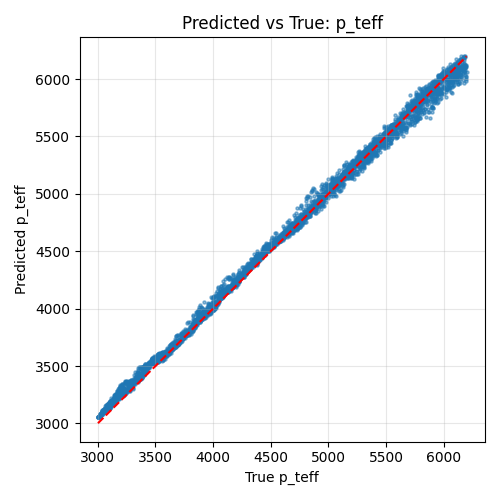
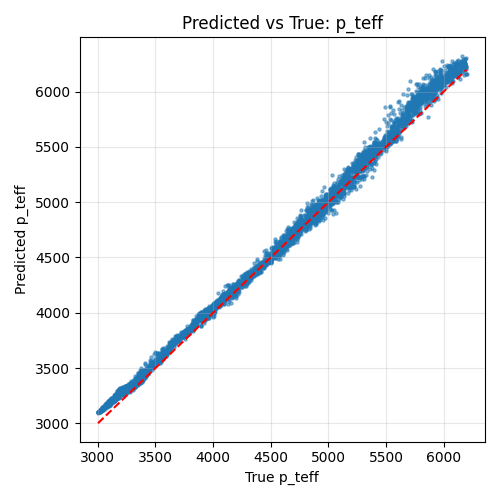
solar radii updated

diff --git a/ANN/ANN2.py b/ANN/ANN2.py
@@ -18,25 +18,20 @@ csv_path = "clean_stellar_dataset.csv"
 wavelength_file = "Koi1422_HET.txt"  # for wavelength grid reference, optional
 
 # ========== LABELS ==========
-# We'll transform radius columns to log space for training
-label_names = ["p_teff", "s_teff", "p_logg", "s_logg", "p_radius_log", "s_radius_log"]
+label_names = ["p_teff", "s_teff", "p_logg", "s_logg", "p_radius", "s_radius"]
 
 # ========== 1. LOAD DATA ==========
 df = pd.read_csv(csv_path)
 flux_cols = [c for c in df.columns if c.startswith("flux_")]
 
-epsilon = 1e-5
-# Create log radius columns to stabilize training
-df["p_radius_log"] = np.log(df["p_radius"] + epsilon)
-df["s_radius_log"] = np.log(df["s_radius"] + epsilon)
+# ===== SOLAR RADIUS CONVERSION (ONLY CHANGE) =====
+R_SUN = 6.957e10  # cm
 
-def undo_log_radii(arr, label_names, epsilon):
-    arr = arr.copy()
-    pr = label_names.index("p_radius_log")
-    sr = label_names.index("s_radius_log")
-    arr[:, pr] = np.exp(arr[:, pr]) - epsilon
-    arr[:, sr] = np.exp(arr[:, sr]) - epsilon
-    return arr
+df["p_radius"] = df["p_radius"] / R_SUN
+df["s_radius"] = df["s_radius"] / R_SUN
+
+
+# ===============================================
 
 # Load wavelength for info (not used in training)
 wavelength = np.loadtxt(wavelength_file)[:, 0]
@@ -51,7 +46,6 @@ def build_wavelength_mask(wl):
         (wl >= 0.8240)
     )
 
-
 mask = build_wavelength_mask(wavelength)
 print(f"Keeping {mask.sum()} / {len(mask)} wavelength bins")
 
@@ -63,7 +57,7 @@ for i in edges:
 
 # ========== 2. BUILD INPUTS & TARGETS ==========
 X_full = df[flux_cols].values
-X = X_full[:, mask]                # APPLY MASK
+X = X_full[:, mask]
 flux_cols = np.array(flux_cols)[mask].tolist()
 y = df[label_names].values
 
@@ -72,21 +66,19 @@ def normalize_synthetic(flux_primary, flux_secondary):
     norm = np.median(flux_primary)
     return flux_primary / norm, flux_secondary / norm
 
-# Normalize each combined flux row by its median (simulate primary star normalization)
 X = X / np.median(X, axis=1, keepdims=True)
 
-def apply_multiplicative_noise(X, snr=100):
+def apply_additive_noise(X, snr=30):
     """
-    Apply multiplicative Gaussian noise assuming constant SNR.
-    F_noisy = F * (1 + N(0, 1/SNR))
+    Apply additive Gaussian noise assuming constant SNR.
+    F_noisy = F + N(0, 1/SNR)
+    (since spectra are median-normalized to ~1)
     """
     sigma = 1.0 / snr
     noise = np.random.normal(loc=0.0, scale=sigma, size=X.shape)
-    return X * (1.0 + noise)
+    return X + noise
 
-# Example: SNR=100
-X = apply_multiplicative_noise(X, snr=100)
-
+X = apply_additive_noise(X, snr=30)
 
 # ========== 4. SCALE DATA ==========
 x_scaler = StandardScaler()
@@ -105,10 +97,8 @@ class StellarDataset(Dataset):
     def __init__(self, X, y):
         self.X = torch.tensor(X, dtype=torch.float32)
         self.y = torch.tensor(y, dtype=torch.float32)
-
     def __len__(self):
         return len(self.X)
-
     def __getitem__(self, idx):
         return self.X[idx], self.y[idx]
 
@@ -124,32 +114,26 @@ class StellarANN(nn.Module):
             nn.ReLU(),
             nn.BatchNorm1d(2048),
             nn.Dropout(0.3),
-
             nn.Linear(2048, 1024),
             nn.ReLU(),
             nn.BatchNorm1d(1024),
             nn.Dropout(0.3),
-
             nn.Linear(1024, 512),
             nn.ReLU(),
-
             nn.Linear(512, 128),
             nn.ReLU(),
-
             nn.Linear(128, n_output)
         )
-
     def forward(self, x):
         return self.net(x)
 
 device = "cuda" if torch.cuda.is_available() else "cpu"
 model = StellarANN(len(flux_cols), len(label_names)).to(device)
 
-# ========== 8. TRAINING SETUP ==========
 criterion = nn.MSELoss()
 optimizer = torch.optim.Adam(model.parameters(), lr=1e-3)
 
-# ========== 9. TRAINING LOOP WITH EARLY STOPPING ==========
+# ========== 9. TRAINING LOOP ==========
 best_val = float("inf")
 patience = 15
 counter = 0
@@ -160,14 +144,11 @@ for epoch in range(max_epochs):
     train_loss = 0
     for xb, yb in train_loader:
         xb, yb = xb.to(device), yb.to(device)
-
         pred = model(xb)
         loss = criterion(pred, yb)
-
         optimizer.zero_grad()
         loss.backward()
         optimizer.step()
-
         train_loss += loss.item()
     train_loss /= len(train_loader)
 
@@ -190,58 +171,47 @@ for epoch in range(max_epochs):
         print("New best model saved")
     else:
         counter += 1
-        print(f"No improvement ({counter}/{patience})")
         if counter >= patience:
             print("Early stopping triggered")
             break
 
-# ========== 10. LOAD BEST MODEL FOR PREDICTION ==========
+# ========== 10. LOAD BEST MODEL ==========
 model.load_state_dict(torch.load(os.path.join(base_dir, "stellar_ann_model.pt")))
 model.eval()
 x_scaler = joblib.load(os.path.join(base_dir, "x_scaler.save"))
 y_scaler = joblib.load(os.path.join(base_dir, "y_scaler.save"))
 
-# ========== 11. PREDICTIONS ON TEST SET ==========
+# ========== 11. PREDICTIONS ==========
 with torch.no_grad():
     y_pred_scaled = model(torch.tensor(X_test, dtype=torch.float32).to(device)).cpu().numpy()
 
 y_pred = y_scaler.inverse_transform(y_pred_scaled)
 y_true = y_scaler.inverse_transform(y_test)
 
-# Optionally convert radius logs back to linear for metrics or keep log-space
-y_pred_lin = undo_log_radii(y_pred, label_names, epsilon)
-y_true_lin = undo_log_radii(y_true, label_names, epsilon)
+y_pred = y_scaler.inverse_transform(y_pred_scaled)
+y_true = y_scaler.inverse_transform(y_test)
 
 # ========== 12. METRICS ==========
+
 errors = y_pred - y_true
 abs_errors = np.abs(errors)
 
-print("\nMean Absolute Error per parameter (log-radius):")
+print("\nMean Absolute Error per parameter:")
 for name, mae in zip(label_names, abs_errors.mean(axis=0)):
     print(f"{name:10s}: {mae:.4f}")
 
 rel_errors = abs_errors / np.abs(y_true)
-print("\nMedian Relative Errors (log-radius):")
+
+print("\nMedian Relative Errors per parameter:")
 for name, re in zip(label_names, np.median(rel_errors, axis=0)):
     print(f"{name:10s}: {re*100:.2f}%")
 
-# If you want metrics in linear radius units, do this:
-errors_lin = y_pred_lin - y_true_lin
-abs_errors_lin = np.abs(errors_lin)
-
-print("\nMean Absolute Error per parameter (linear radius):")
-for name, mae in zip(label_names, abs_errors_lin.mean(axis=0)):
-    print(f"{name:10s}: {mae:.4f}")
-
-rel_errors_lin = abs_errors_lin / np.abs(y_true_lin)
-print("\nMedian Relative Errors (linear radius):")
-for name, re in zip(label_names, np.median(rel_errors_lin, axis=0)):
-    print(f"{name:10s}: {re*100:.2f}%")
 
 # ========== 13. SAVE PREDICTIONS TABLE ==========
 pred_df = pd.DataFrame(y_pred, columns=[f"pred_{n}" for n in label_names])
 true_df = pd.DataFrame(y_true, columns=[f"true_{n}" for n in label_names])
-err_df  = pd.DataFrame(errors, columns=[f"err_{n}" for n in label_names])
+err_df = pd.DataFrame(errors, columns=[f"err_{n}" for n in label_names])
+
 
 results_df = pd.concat([true_df, pred_df, err_df], axis=1)
 results_df.to_csv(os.path.join(base_dir, "test_predictions.csv"), index=False)
@@ -279,53 +249,30 @@ plt.savefig(os.path.join(output_dir, "masking_check.png"))
 plt.close()
 
 
-# ========== 15. INFERENCE ON NEW REAL SPECTRUM ==========
-def predict_stellar_params_from_spectrum(filename, model, x_scaler, y_scaler, epsilon=1e-5):
+# ========== 15. INFERENCE ==========
+def predict_stellar_params_from_spectrum(filename, model, x_scaler, y_scaler):
     data = np.loadtxt(filename)
-
     wl = data[:, 0]
     flux = data[:, 1]
 
     mask = build_wavelength_mask(wl)
     flux = flux[mask]
 
-
     flux = flux / np.median(flux)
     flux = flux.reshape(1, -1)
-
     flux_scaled = x_scaler.transform(flux)
 
-    model.eval()
     with torch.no_grad():
         pred_scaled = model(torch.tensor(flux_scaled, dtype=torch.float32)).numpy()
 
     pred = y_scaler.inverse_transform(pred_scaled)[0]
 
-    # Indexes for log radius
-    p_radius_log_idx = label_names.index("p_radius_log")
-    s_radius_log_idx = label_names.index("s_radius_log")
-
-    print("Log p_radius (model output):", pred[p_radius_log_idx])
-    print("Log s_radius (model output):", pred[s_radius_log_idx])
-
-    # Exponentiate to linear radius
-    p_radius_lin = np.exp(pred[p_radius_log_idx]) - epsilon
-    s_radius_lin = np.exp(pred[s_radius_log_idx]) - epsilon
-
-    # Prepare clean output dict with renamed keys
-    clean_labels = ["p_teff", "s_teff", "p_logg", "s_logg", "p_radius", "s_radius"]
-
-    pred_clean = pred.copy()
-    pred_clean[p_radius_log_idx] = p_radius_lin
-    pred_clean[s_radius_log_idx] = s_radius_lin
-
-    result = dict(zip(clean_labels, pred_clean))
-
-    return result
+    return dict(zip(label_names, pred))
 
 # Example usage:
 new_spectrum_file = "Koi1422_HET.txt"
 predicted_labels = predict_stellar_params_from_spectrum(new_spectrum_file, model, x_scaler, y_scaler)
-print("\nPredicted stellar parameters for new spectrum:")
+
+print("\nPredicted stellar parameters:")
 for k, v in predicted_labels.items():
     print(f"{k:10s}: {v:.4f}")

diff --git a/README.md b/README.md
@@ -1,46 +1,30 @@
 ### Updates explained:
 
-- Here we implement masking, to see results without masking, refer to the previous git commit. Additionally, we reference the[LRLRPayne: Stellar parameters and abundances from low-resolution spectra](https://arxiv.org/pdf/2511.06546) with our masking approach in which we add a wavelength mask function after loading the wavelength in our 'ANN2.py' file. However we don't interpolate or extrapolate because:
-    - mask keeps same bins
-    - scaler expects masked shape
-    - ANN input matches exactly
-- This differes from the LRPayne since the mask during χ² determination whereas we mask "inside" the ANN (technically before the ANN forward pass, like we do with injection). You can see what the masked spectrum looks like in. 
-- Also note to self, we write masking function in microns, and we keep to the EXACT values Kendall gave us and DON'T pad Angstroms on both sides. 
-
-0.6859282598158023 0.6860227823557925
-0.6879132331555987 0.6880077556955889
-0.7599394086282114 0.7600339311682016
-0.7659888511875909 0.7660833737275813
-0.8209064469219584 0.8210009694619487
-0.8239311682016481 0.8240256907416383
-
-![Masking Check](/ANN-for-Stellar-Label-Determination/ANN/results/masking_check.png)
-
+- I finally understand where I went wrong with radii, and it was a completely silly mistake. 
 
 ### TO DO NEXT
 
-- I also have to updated the way we return our Error evaluations, right now we return both linear and log radius, I'm just abiding by log for now, I'll fix this sometime eventually
+- optimization, rn log g seconary returns higher outputs than secondary, maybe fiddle with the ANN to put restraints on that.
 
 ### RESULTS
 
 | Parameter | MRE |
 |---|---|
-| p_teff | 0.85% |
-| s_teff | 0.81% |
-| p_logg | 0.13% |
-| s_logg | 0.22% |
-| p_radius_log | 0.05% |
-| s_radius_log | 0.12% |
+| p_teff | 0.67 |
+| p_logg | 1.05% |
+| s_logg | 0.15% |
+| p_radius | 1.31% |
+| s_radius | 3.42% |
 
 
 | Parameter | Predicted | Truth | Error |
 |---|---|---|---|
-| p_teff | 3892.3513 | 3665 | +6.20 % |
-| s_teff | 3711.8232 | 3372 | +10.07 % |
-| p_logg | 4.8843 | 5.03 | −0.146 dex |
-| s_logg | 4.9140| 4.53 | +0.384 dex |
-| p_radius_log | 25460154368 | 0.41 | ?? |
-| s_radius_log | 24998350848 | 0.67 | ?? |
+| p_teff | 3931.0134 | 3665 | +7.26% |
+| s_teff | 3353.1851 | 3372 | −0.56% |
+| p_logg | 4.8301 | 5.03 | −3.98% |
+| s_logg | 5.0078 | 4.53 | +10.55% |
+| p_radius | 0.4556 | 0.41 | +11.12% |
+| s_radius | 0.2739 | 0.274 | −0.04% |
 
 
 
